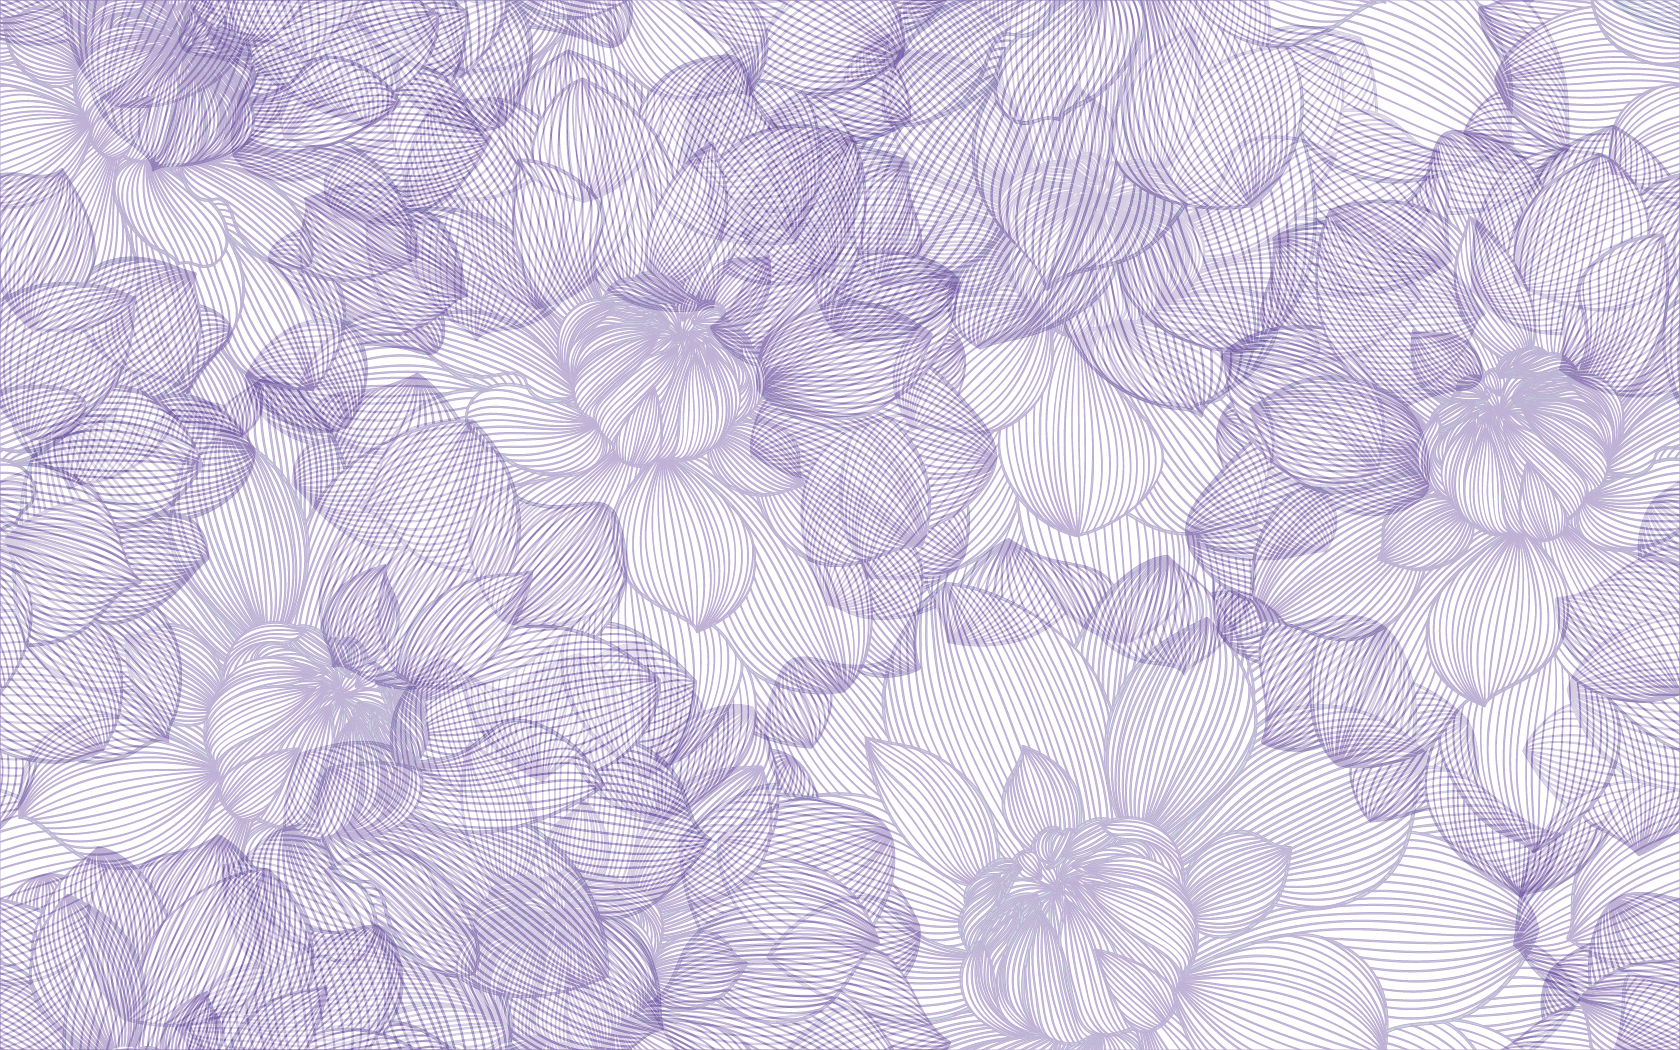
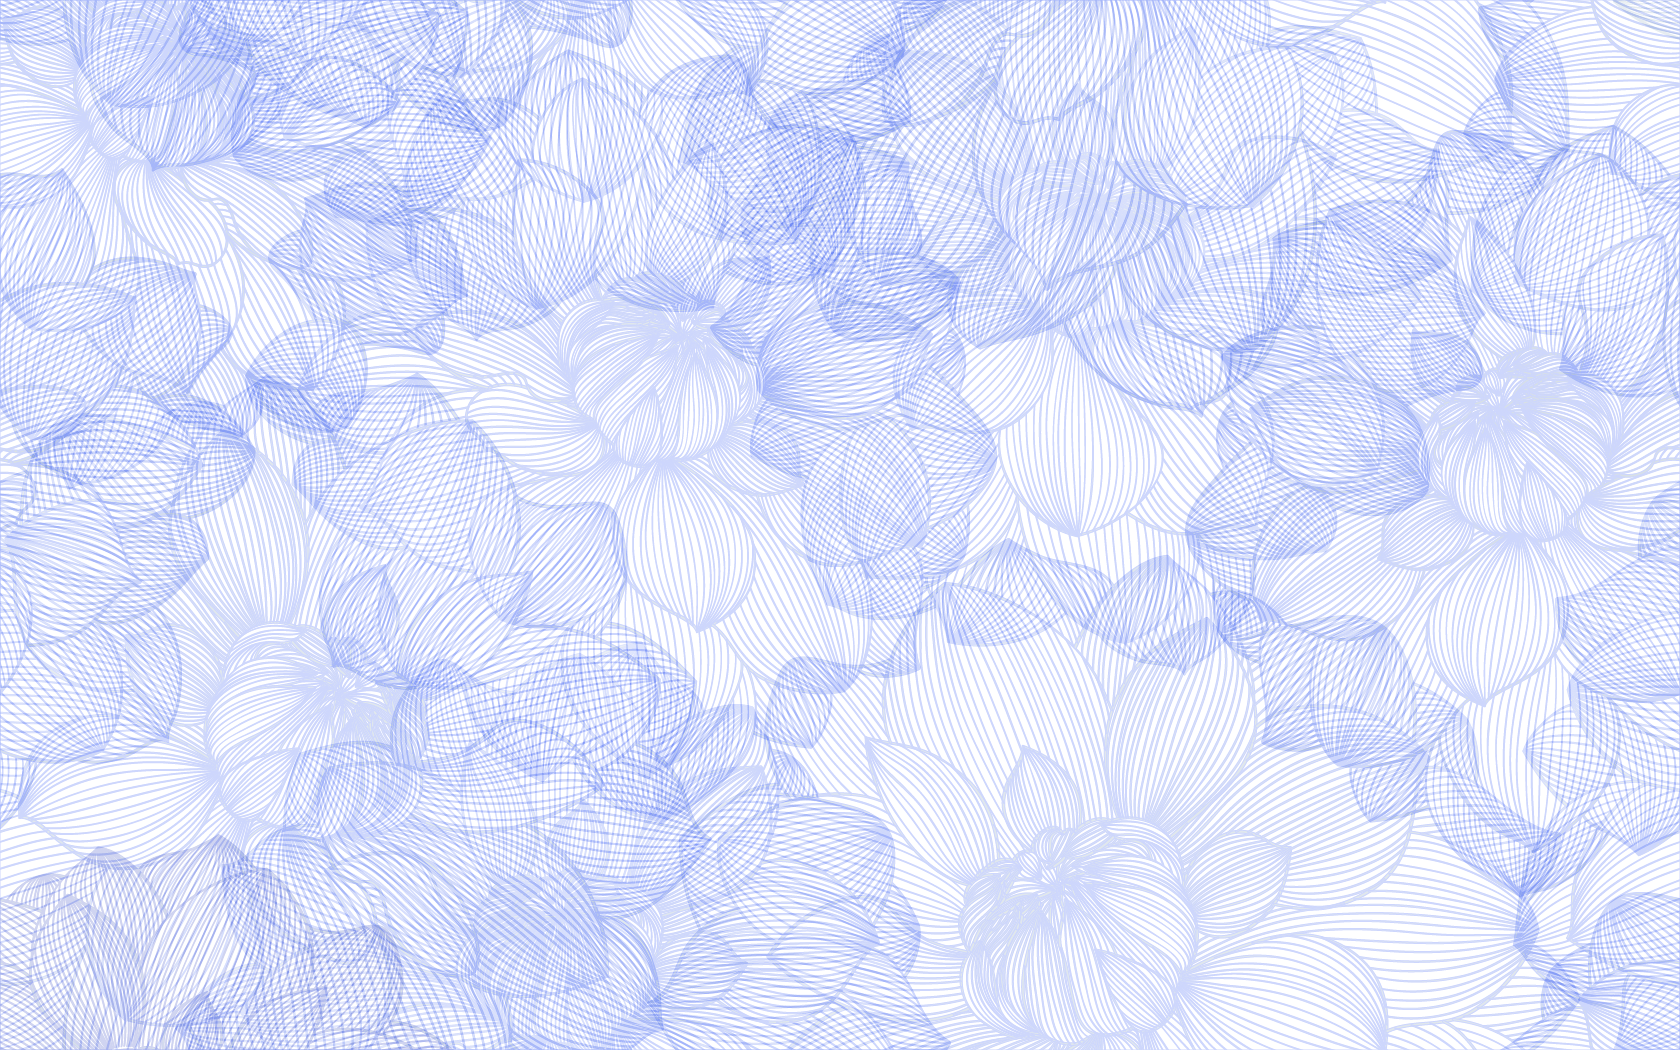
hola

diff --git a/style.css b/style.css
@@ -28,7 +28,7 @@ body {
     z-index: 1;
     top: 0;
     right: 0;
-    background-color: #192F4A;
+    background-color: #C8C7AE;
     overflow-x: hidden;
     /* Disable horizontal scroll */
     transition: 0.5s;
@@ -46,7 +46,7 @@ body {
 }
 
 .sidenav a:hover {
-    color: black;
+    color: #8E8E74;
 }
 
 /* Position and style the close button (top right corner) */
@@ -134,18 +134,16 @@ Home
     font-size: 1rem;
 }
 
-
-
-.portfolio #tema_1_border {
-    background-color: #303b45;
-
-}
-
 .portfolio #tema_1 {
-    background-image: url(img/blue.png);
+    background-image: url(img/lilla.png);
     background-color: white;
     background-size: cover;
 }
+
+.portfolio #tema_1_border {
+    background-color: #A3BFD9;
+}
+
 
 .portfolio #tema_2 {
     background-image: url(img/blue.png);
@@ -154,25 +152,28 @@ Home
 }
 
 .portfolio .theme_2{
-    background-color: #0b1a4d;
+    background-color: #f7e3a0;
 }
 
 .portfolio #tema_3 {
-  background-image: url(img/lilla.png);
+    background-image: url(img/lilla.png);
+    background-color: white;
     background-size: cover;
+
 }
 
 .portfolio #tema_3_border {
-    background-color: #2e213b;
+    background-color: #baa4c1;
 
 }
 
 .portfolio #tema_4_border {
-    background-color: #2e213b;
+    background-color: #8E8E74;
 }
 
 .portfolio #tema_4 {
     background-image: url(img/flowers_brown_2.png);
+    background-color: white;
     background-size: cover;
 }
 
@@ -197,22 +198,20 @@ Home
     color: white;
 }
 
-
-
 #tema1 {
-    background-color: #27323B;
+    background-color: #3a546c;
 }
 
 #tema2 {
-    background-color: #223851;
+    background-color: #b19b53;
 }
 
 #tema3 {
-    background-color: #2B2532;
+    background-color:  #624d69;
 }
 
 #tema4 {
-    background-color: #312F2D;
+    background-color: #5a5a43;
 }
 
 .col h1 {
@@ -237,9 +236,9 @@ Home
     display: flex;
     flex-direction: column;
     width: 4rem;
-    height: 15rem;
+    height: 11rem;
     right: 0;
-    top: 185px;
+    top: 190px;
     position: absolute;
     background-color: white;
     align-items: center;
@@ -259,7 +258,7 @@ Home
 }
 
 .button_active {
-    background-color: aqua;
+    background-color: #444b4b;
 }
 
 .btn:hover {
